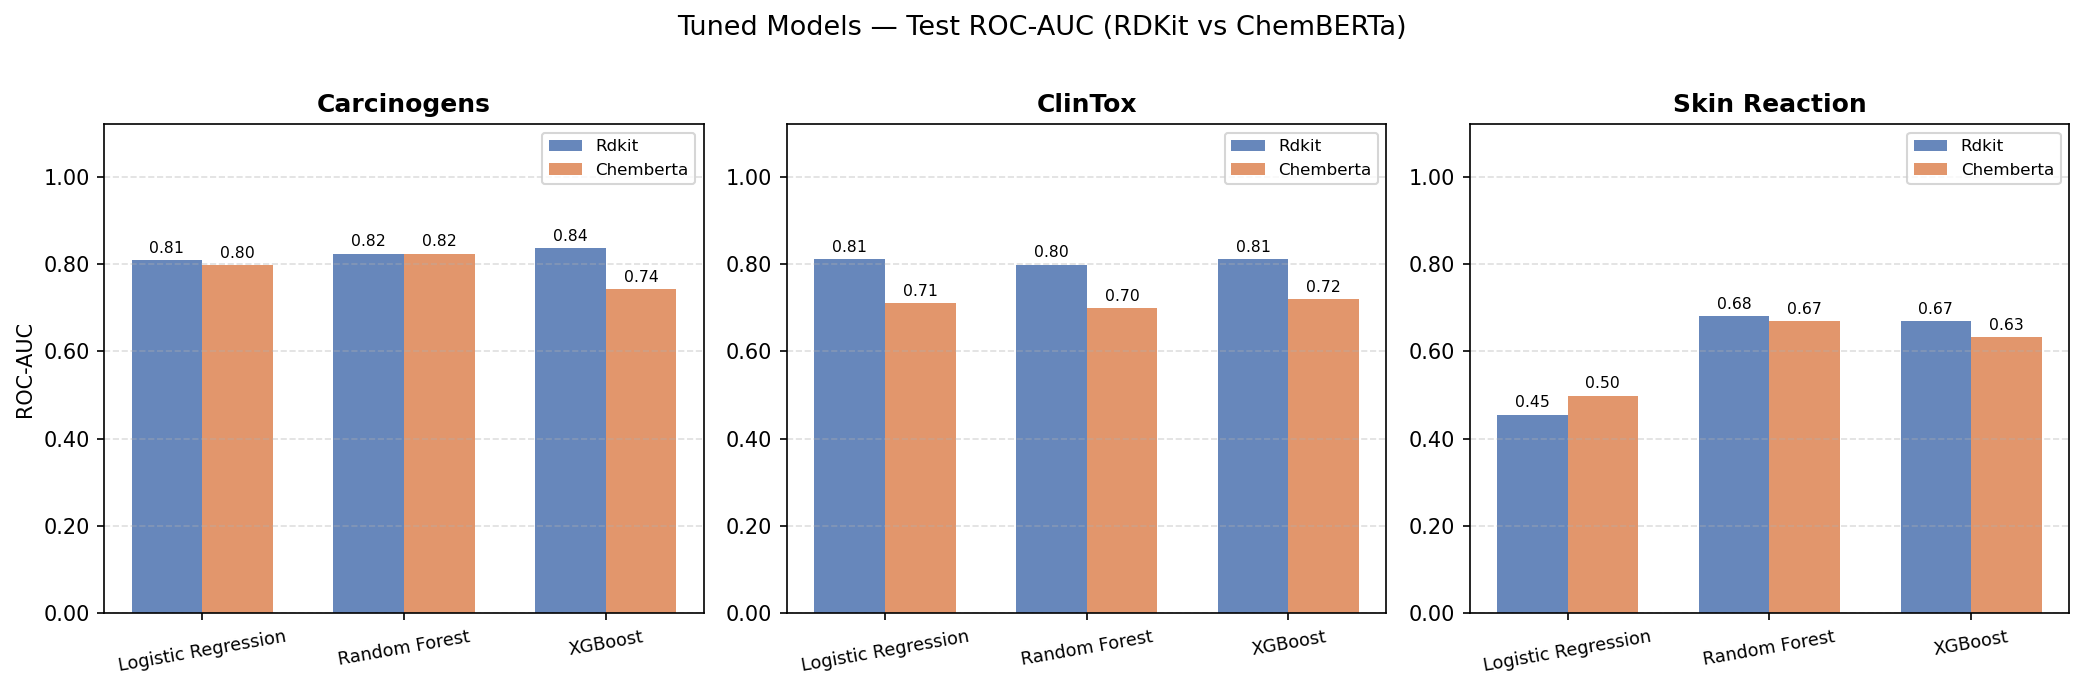
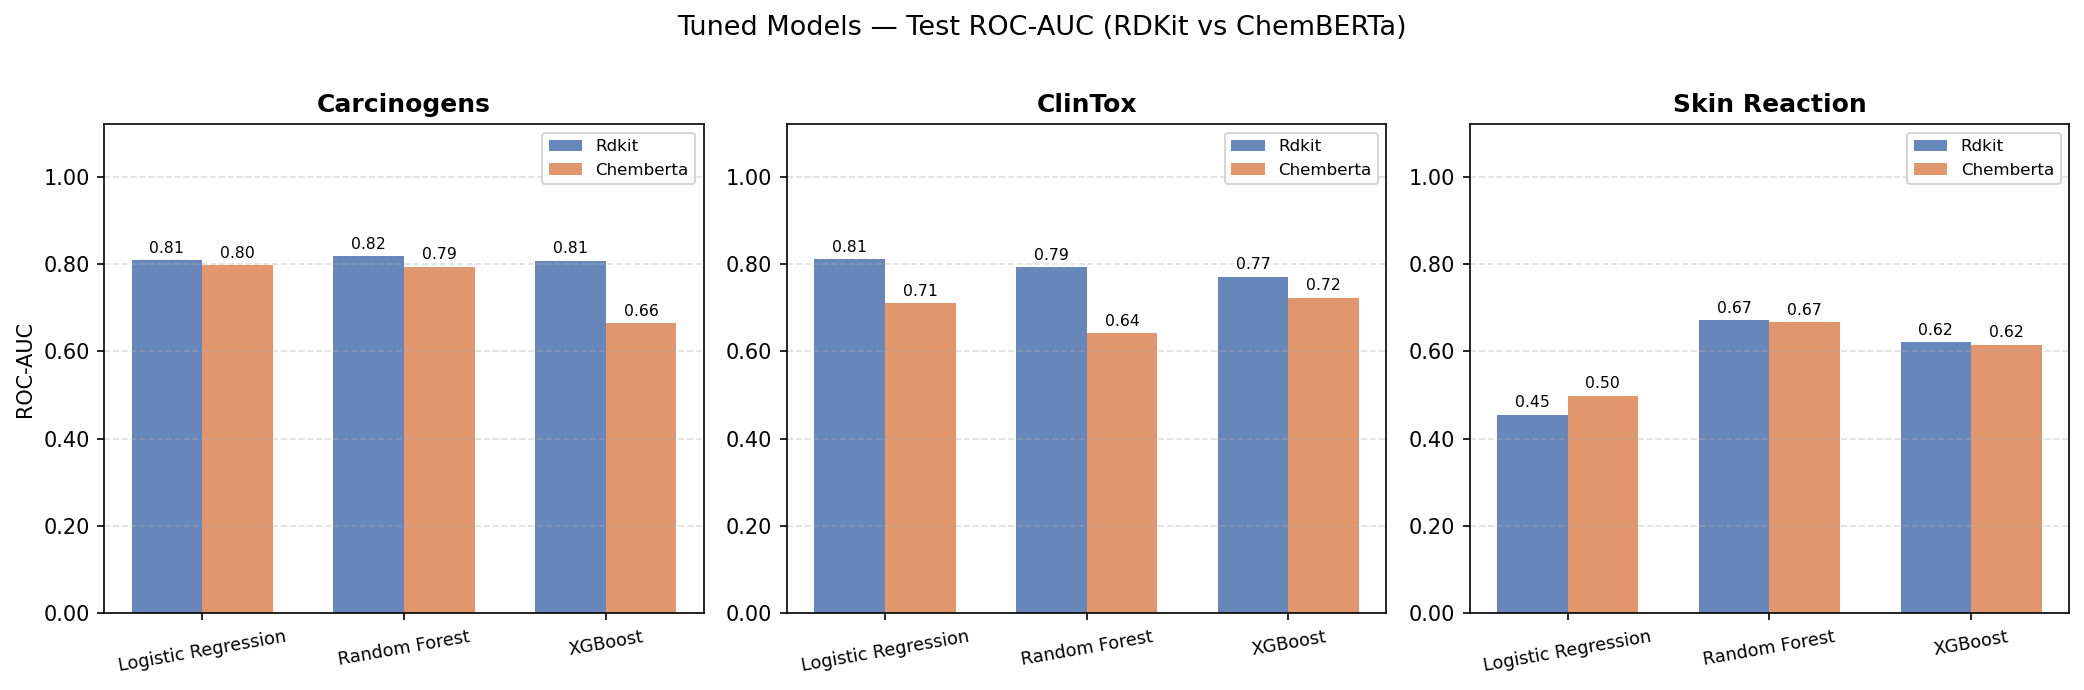
changed in tuning models, and added selected column for baseline or tuned to always find the best combo either tuned or baseline

diff --git a/tuning_models.py b/tuning_models.py
@@ -59,22 +59,22 @@ if __name__ == "__main__":
                     {
                         "model__n_estimators":     [100, 200, 300, 500],
                         "model__max_depth":        [3, 5, 10, None],
-                        "model__min_samples_leaf": [2, 5, 10],
+                        "model__min_samples_leaf": [1, 2, 5, 10],  # 1 = baseline default
                         "model__max_features":     ["sqrt", "log2", 0.3],
                     },
-                    20,  # 144 combinations total
+                    20,  # 192 combinations total; grid includes the baseline config
                 ),
                 (
                     "xgb",
                     utils.build_pipeline("xgb", {}, y_train),
                     {
                         "model__n_estimators":     [100, 200, 300],
-                        "model__max_depth":        [3, 5, 7],
-                        "model__learning_rate":    [0.01, 0.05, 0.1, 0.2],
+                        "model__max_depth":        [3, 5, 6, 7],       # 6 = baseline default
+                        "model__learning_rate":    [0.01, 0.05, 0.1, 0.2, 0.3],  # 0.3 = baseline default
                         "model__subsample":        [0.7, 0.8, 1.0],
                         "model__colsample_bytree": [0.7, 0.8, 1.0],
                     },
-                    30,  # 324 combinations total
+                    30,  # 540 combinations total; grid includes the baseline config
                 ),
             ]
 
@@ -90,21 +90,41 @@ if __name__ == "__main__":
                 )
                 search.fit(X_combined, y_combined)
 
-                # Refit the winning config on TRAIN ONLY, so valid stays a clean hold-out
-                best = clone(pipe).set_params(**search.best_params_)
-                best.fit(X_train, y_train)
-                p_valid = best.predict_proba(X_valid)[:, 1]
-                p_test  = best.predict_proba(X_test)[:, 1]
+                # Two candidates, both refit on TRAIN ONLY so valid stays a clean hold-out:
+                #   - "tuned":    the winning config from the random search
+                #   - "baseline": the untuned defaults from utils.BASELINE_PARAMS
+                # We keep whichever scores higher on validation PR-AUC. This guarantees the
+                # selected model is never worse than baseline on validation, regardless of
+                # whether the random search happened to sample the baseline config.
+                tuned_params    = search.best_params_
+                baseline_params = {f"model__{k}": v
+                                   for k, v in utils.BASELINE_PARAMS[mtype].items()}
+
+                candidates = []
+                for tag, params in [("tuned", tuned_params), ("baseline", baseline_params)]:
+                    est = clone(pipe).set_params(**params)
+                    est.fit(X_train, y_train)
+                    pv = est.predict_proba(X_valid)[:, 1]
+                    pt = est.predict_proba(X_test)[:, 1]
+                    candidates.append({
+                        "selected":      tag,
+                        "best_params":   str(params),
+                        "valid_PR-AUC":  safe_ap(y_valid, pv),
+                        "valid_ROC-AUC": safe_auc(y_valid, pv),
+                        "test_PR-AUC":   safe_ap(y_test, pt),
+                        "test_ROC-AUC":  safe_auc(y_test, pt),
+                    })
+
+                # Pick the candidate with the higher validation PR-AUC (NaN treated as -inf).
+                winner = max(candidates,
+                             key=lambda c: c["valid_PR-AUC"] if not np.isnan(c["valid_PR-AUC"])
+                             else -np.inf)
 
                 all_results.append({
-                    "dataset":       name,
-                    "features":      fname,
-                    "model":         mtype,
-                    "best_params":   str(search.best_params_),
-                    "valid_PR-AUC":  safe_ap(y_valid, p_valid),
-                    "valid_ROC-AUC": safe_auc(y_valid, p_valid),
-                    "test_PR-AUC":   safe_ap(y_test, p_test),
-                    "test_ROC-AUC":  safe_auc(y_test, p_test),
+                    "dataset":  name,
+                    "features": fname,
+                    "model":    mtype,
+                    **winner,
                 })
 
     os.makedirs("results", exist_ok=True)

diff --git a/visualize_results.py b/visualize_results.py
@@ -113,6 +113,7 @@ for (dataset, ftype), group in df.groupby(["dataset", "features"]):
         "Dataset":       DATASET_LABELS.get(dataset, dataset),
         "Features":      ftype.capitalize(),
         "Best Model":    MODEL_LABELS.get(best["model"], best["model"]),
+        "Config":        best["selected"],  # "tuned" or "baseline"
         "Valid PR-AUC":  round(best["valid_PR-AUC"], 4),
         "Test PR-AUC":   round(best["test_PR-AUC"], 4),
         "Test ROC-AUC":  round(best["test_ROC-AUC"], 4),
